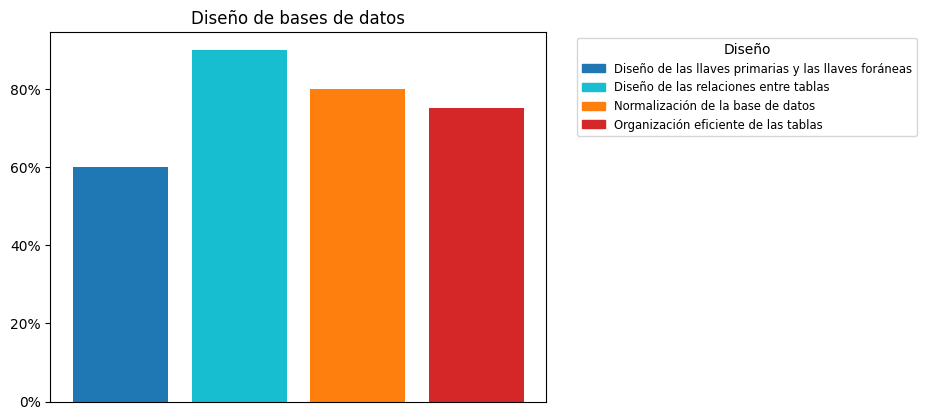
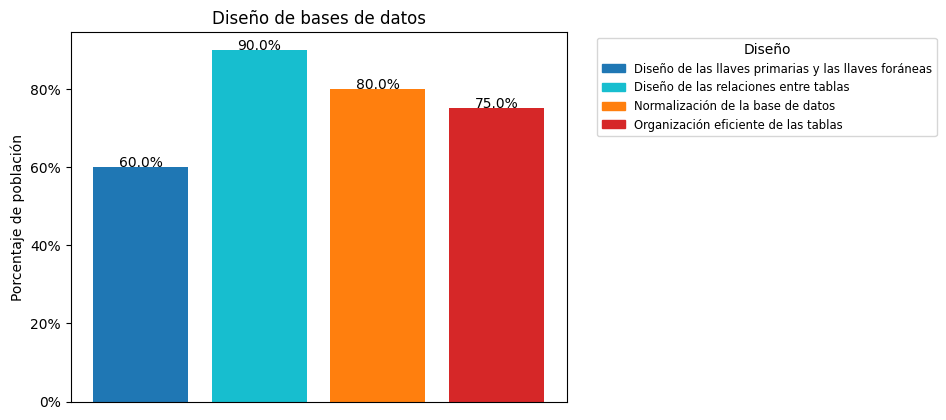
Corrección de gráficas

diff --git a/make_graphics.py b/make_graphics.py
@@ -258,7 +258,8 @@ make_bar(
         title="Importancia de Habilidades blandas que poseen los estudiantes de Ingeniería en Sistemas\n",
         file_name="./fig/habilidades_blandas_es.png",
         range=True,
-        name="Habilidades"
+        name="Habilidades",
+        ylabel="Nivel de importancia"
         )
 
 
@@ -269,7 +270,8 @@ make_bar(
         title="Importancia de Habilidades blandas requeridas en el sector bancario\n",
         file_name="./fig/habilidades_blandas_bc.png",
         range=True,
-        name="Habilidades"
+        name="Habilidades",
+        ylabel="Nivel de importancia"
         )
 
 ############## Tecnologias y Frecuencia ##############
@@ -425,26 +427,18 @@ centros_df = pd.DataFrame({
     'Porcentaje': fre_centros
     })
 
-centros_df = centros_df.sort_values('Porcentaje', ascending=True)
+centros_df = centros_df.sort_values('Porcentaje', ascending=False)
 
-fig, ax = plt.subplots()
+make_bar(
+        data=centros_df['Centros'].tolist(),
+        por=centros_df['Porcentaje'].tolist(),
+        title="Universidades en las que estudiaron los empleados",
+        name="Universidades",
+        file_name="./fig/centros_de_estudio.png",
+        ylabel="Porcentaje de población"
+        )
 
-ax.barh('Centros', 'Porcentaje', data=centros_df)
-plt.title("Universidades en las que estudiaron los empleados")
-ax.xaxis.set_major_formatter(mtick.PercentFormatter())
-
-plt.ylabel("Universidades")
-plt.xlabel("Porcentaje de empleados que estudiaron en X universidad")
-
-plt.savefig("./fig/centros_de_estudio.png", dpi=None, facecolor='w', edgecolor='w',
-        orientation='portrait', format=None,
-        transparent=False, bbox_inches='tight', pad_inches=0.1,
-        metadata=None)
-plt.clf()
-
-
-
-############ Centros de estudio de los empleados de bancos ############
+############ Centros de trabajo de los empleados de bancos ############
 bancos_laborados = np.array(bancos_laborados)
 bancos_set, fre_bancos = np.unique(bancos_laborados, return_counts=True)
 
@@ -457,22 +451,16 @@ bancos_df = pd.DataFrame({
 
 bancos_df = bancos_df.drop(labels=0, axis=0)
 
-bancos_df = bancos_df.sort_values('Porcentaje', ascending=True)
+bancos_df = bancos_df.sort_values('Porcentaje', ascending=False)
 
-fig, ax = plt.subplots()
-
-ax.barh('Bancos', 'Porcentaje', data=bancos_df)
-plt.title("Listado bancos")
-ax.xaxis.set_major_formatter(mtick.PercentFormatter())
-
-plt.ylabel("Bancos")
-plt.xlabel("Porcentaje de empleados que trabajaron en X banco")
-
-plt.savefig("./fig/bancos_laborados.png", dpi=None, facecolor='w', edgecolor='w',
-        orientation='portrait', format=None,
-        transparent=False, bbox_inches='tight', pad_inches=0.1,
-        metadata=None)
-plt.clf()
+make_bar(
+        data=bancos_df['Bancos'].tolist(),
+        por=bancos_df['Porcentaje'].tolist(),
+        title="Bancos en los que han trabajado los empleados",
+        name="Bancos",
+        file_name="./fig/bancos_laborados.png",
+        ylabel="Porcentaje de población"
+        )
 
 ############ Adquisición de conocimientos ############
 totales = []
@@ -616,34 +604,14 @@ plt.clf()
 
 
 ### Totales
-fig, ax = plt.subplots()
-ax.bar('Totales_adq', 'Porcentaje', data=totales_df, color=['tab:blue', 'tab:cyan', 'tab:orange', 'tab:red', 'tab:gray', 'tab:green', 'tab:purple', 'tab:pink', 'm'])
-
-plt.tick_params(
-    axis='x',        
-    which='both',   
-    bottom=False,  
-    top=False,    
-    labelbottom=False)
-
-plt.title("Adquisición de conocimientos tecnicos totales")
-
-fontP = FontProperties()
-fontP.set_size('small')
-
-cmap = dict(zip(totales_df['Totales_adq'].tolist(), ['tab:blue', 'tab:cyan', 'tab:orange', 'tab:red', 'tab:gray', 'tab:green', 'tab:purple', 'tab:pink', 'm']))
-
-patches = [Patch(color=v, label=k) for k, v in cmap.items()]
-
-ax.yaxis.set_major_formatter(mtick.PercentFormatter())
-plt.legend(labels=totales_df['Totales_adq'].tolist(), handles=patches, title='Adquisición', bbox_to_anchor=(1.05, 1), loc='upper left', prop=fontP)
-
-plt.savefig("./fig/totales_adq.png", dpi=None, facecolor='w', edgecolor='w',
-        orientation='portrait', format=None,
-        transparent=False, bbox_inches='tight', pad_inches=0.1,
-        metadata=None)
-plt.clf()
-
+make_bar(
+        data=totales_df['Totales_adq'].tolist(),
+        por=totales_df['Porcentaje'].tolist(),
+        title="Adquisición de conocimientos tecnicos totales",
+        name="Adquisición",
+        file_name="./fig/totales_adq.png",
+        ylabel="Porcentaje de población"
+        )
 
 ############ Certificaciones de empleados ############
 certificados = np.array(certificados)
@@ -652,40 +620,15 @@ certificados_set, certificados_count = np.unique(certificados, return_counts=Tru
 
 certificados_pro = (certificados_count / len(empleados_crt)) * 100
 
-certificados_df = pd.DataFrame({
-    'Certificados': certificados_set,
-    'Porcentaje': certificados_pro
-    })
-certificados_df = certificados_df.drop(labels=0, axis=0)
-
-fig, ax = plt.subplots()
-ax.bar('Certificados', 'Porcentaje', data=certificados_df, color=['tab:blue', 'tab:cyan', 'tab:orange', 'tab:red', 'tab:gray', 'tab:green', 'tab:purple', 'tab:pink', 'm'])
-
-plt.tick_params(
-    axis='x',        
-    which='both',   
-    bottom=False,  
-    top=False,    
-    labelbottom=False)
-
-plt.title("Adquisición de conocimientos tecnicos totales")
-
-fontP = FontProperties()
-fontP.set_size('small')
-
-cmap = dict(zip(certificados_df['Certificados'].tolist(), ['tab:blue', 'tab:cyan', 'tab:orange', 'tab:red', 'tab:gray', 'tab:green', 'tab:purple', 'tab:pink', 'm']))
-
-patches = [Patch(color=v, label=k) for k, v in cmap.items()]
-
-ax.yaxis.set_major_formatter(mtick.PercentFormatter())
-plt.legend(labels=certificados_df['Certificados'].tolist(), handles=patches, title='Certificados', bbox_to_anchor=(1.05, 1), loc='upper left', prop=fontP)
-
-plt.savefig("./fig/certificados.png", dpi=None, facecolor='w', edgecolor='w',
-        orientation='portrait', format=None,
-        transparent=False, bbox_inches='tight', pad_inches=0.1,
-        metadata=None)
-plt.clf()
-
+make_bar(
+        data=certificados_set,
+        por=certificados_pro,
+        title="Certificaciones de los empleados",
+        name="Certificados",
+        file_name="./fig/certificados.png",
+        drop_df=True,
+        ylabel="Porcentaje de población"
+        )
 
 ############ Areas de trabajo de empleados ############
 areas_de_desempenio = np.array(areas_de_desempenio)
@@ -694,39 +637,15 @@ areas_set, areas_count = np.unique(areas_de_desempenio, return_counts=True)
 
 areas_pro = (areas_count / len(empleados_de_bancos)) * 100
 
-areas_df = pd.DataFrame({
-    'Areas': areas_set,
-    'Porcentaje': areas_pro
-    })
-areas_df = areas_df.drop(labels=0, axis=0)
-
-fig, ax = plt.subplots()
-ax.bar('Areas', 'Porcentaje', data=areas_df, color=['tab:blue', 'tab:cyan', 'tab:orange', 'tab:red', 'tab:gray', 'tab:green', 'tab:purple', 'tab:pink', 'm'])
-
-plt.tick_params(
-    axis='x',        
-    which='both',   
-    bottom=False,  
-    top=False,    
-    labelbottom=False)
-
-plt.title("Areas de desempeño de empleados")
-
-fontP = FontProperties()
-fontP.set_size('small')
-
-cmap = dict(zip(areas_df['Areas'].tolist(), ['tab:blue', 'tab:cyan', 'tab:orange', 'tab:red', 'tab:gray', 'tab:green', 'tab:purple', 'tab:pink', 'm']))
-
-patches = [Patch(color=v, label=k) for k, v in cmap.items()]
-
-ax.yaxis.set_major_formatter(mtick.PercentFormatter())
-plt.legend(labels=areas_df['Areas'].tolist(), handles=patches, title='Areas', bbox_to_anchor=(1.05, 1), loc='upper left', prop=fontP)
-
-plt.savefig("./fig/areas_de_desempenio.png", dpi=None, facecolor='w', edgecolor='w',
-        orientation='portrait', format=None,
-        transparent=False, bbox_inches='tight', pad_inches=0.1,
-        metadata=None)
-plt.clf()
+make_bar(
+        data=areas_set,
+        por=areas_pro,
+        title="Areas de desempeño de empleados",
+        name="Areas",
+        file_name="./fig/areas_de_desempenio.png",
+        drop_df=True,
+        ylabel="Porcentaje de población"
+        )
 
 ############ Habilidades necesarias ############
 habilidades_necesarias = np.array(habilidades_necesarias)
@@ -741,7 +660,8 @@ make_bar(
         title="Habilidades necesarias para trabajar en el sector",
         name="Habilidades",
         file_name="./fig/habilidades_necesarias.png",
-        drop_df=True
+        drop_df=True,
+        ylabel="Porcentaje de población"
         )
 
 ############ Gestores de bases de datos usados ############
@@ -757,7 +677,8 @@ make_bar(
         title="Gestores necesarios",
         name="Gestores",
         file_name="./fig/gestores_bd.png",
-        drop_df=True
+        drop_df=True,
+        ylabel="Porcentaje de población"
         )
 
 
@@ -775,7 +696,8 @@ make_bar(
         title="Sistemas operativos",
         name="SO",
         file_name="./fig/so_usados.png",
-        drop_df=True
+        drop_df=True,
+        ylabel="Porcentaje de población"
         )
 ############ Lenguajes de programación que saben usar los empleados ############
 
@@ -791,7 +713,8 @@ make_bar(
         title="Lenguajes de programación usados",
         name="Lenguajes",
         file_name="./fig/lenguajes_usados.png",
-        drop_df=True
+        drop_df=True,
+        ylabel="Porcentaje de población"
         )
 
 ############ Areas de interes para los estudiantes ############
@@ -808,7 +731,8 @@ make_bar(
         title="Areas de interes para los estudiantes",
         name="Areas",
         file_name="./fig/areas_interes.png",
-        drop_df=True
+        drop_df=True,
+        ylabel="Porcentaje de población"
         )
 
 ############ Lenguajes de programación que dominan los estudiantes ############
@@ -830,7 +754,8 @@ make_bar(
         name="Lenguajes",
         file_name="./fig/lenguajes_domi.png",
         drop_df=True,
-        range=True
+        range=True,
+        ylabel="Nivel de dominio"
         )
 
 ############ Patrones de diseño ############
@@ -847,7 +772,8 @@ make_bar(
         title="Patrones de diseño que conocen los estudiantes",
         name="Patrones",
         file_name="./fig/patrones_disenio.png",
-        drop_df=True
+        drop_df=True,
+        ylabel="Porcentaje de población"
         )
 
 ############ Gestores de bases de datos que dominan los estudiantes ############
@@ -870,7 +796,8 @@ make_bar(
         name="Gestores",
         file_name="./fig/gestores_domi.png",
         drop_df=True,
-        range=True
+        range=True,
+        ylabel="Nivel de dominio"
         )
 
 ############ Diseño de bases de datos ############
@@ -887,7 +814,8 @@ make_bar(
         title="Diseño de bases de datos",
         name="Diseño",
         file_name="./fig/bases_disenio.png",
-        drop_df=True
+        drop_df=True,
+        ylabel="Porcentaje de población"
         )
 
 ############ Diseño de bases de datos ############
@@ -904,7 +832,8 @@ make_bar(
         title="Sistemas operativos que dominan los estudiantes",
         name="Sistemas Operativos",
         file_name="./fig/sistema_domi.png",
-        drop_df=True
+        drop_df=True,
+        ylabel="Porcentaje de población"
         )
 
 

diff --git a/make_bar.py b/make_bar.py
@@ -5,7 +5,7 @@ from matplotlib.font_manager import FontProperties
 from matplotlib.patches import Patch
 import pandas as pd
 
-def make_bar(data, por, title, name, file_name, drop_df=False, range=False):
+def make_bar(data, por, title, name, file_name, drop_df=False, range=False, ylabel=None, xlabel=None):
     df = pd.DataFrame({
         'Label': data,
         'Value': por
@@ -15,7 +15,13 @@ def make_bar(data, por, title, name, file_name, drop_df=False, range=False):
         df = df.drop(labels=0, axis=0)
 
     fig, ax = plt.subplots()
-    ax.bar('Label', 'Value', data=df, color=['tab:blue', 'tab:cyan', 'tab:orange', 'tab:red', 'tab:gray', 'tab:green', 'tab:purple', 'tab:pink', 'm', 'tab:olive','tab:brown', 'mediumseagreen','k'])
+    pps = ax.bar('Label', 'Value', data=df, color=['tab:blue', 'tab:cyan', 'tab:orange', 'tab:red', 'tab:gray', 'tab:green', 'tab:purple', 'tab:pink', 'm', 'tab:olive','tab:brown', 'mediumseagreen','k'])
+
+    if ylabel is not None:
+        plt.ylabel(ylabel)
+
+    if xlabel is not None:
+        plt.xlabel(xlabel)
 
     plt.tick_params(
         axis='x',        
@@ -35,6 +41,11 @@ def make_bar(data, por, title, name, file_name, drop_df=False, range=False):
 
     if not range:
         ax.yaxis.set_major_formatter(mtick.PercentFormatter())
+        for p in pps:
+            height = p.get_height()
+            ax.text(x=p.get_x() + p.get_width() / 2, y=height+.10,
+                s="{0:.1f}%".format(height),
+                ha='center')
     else:
         plt.ylim([0,5])
     plt.legend(labels=df['Label'].tolist(), handles=patches, title=name, bbox_to_anchor=(1.05, 1), loc='upper left', prop=fontP)
